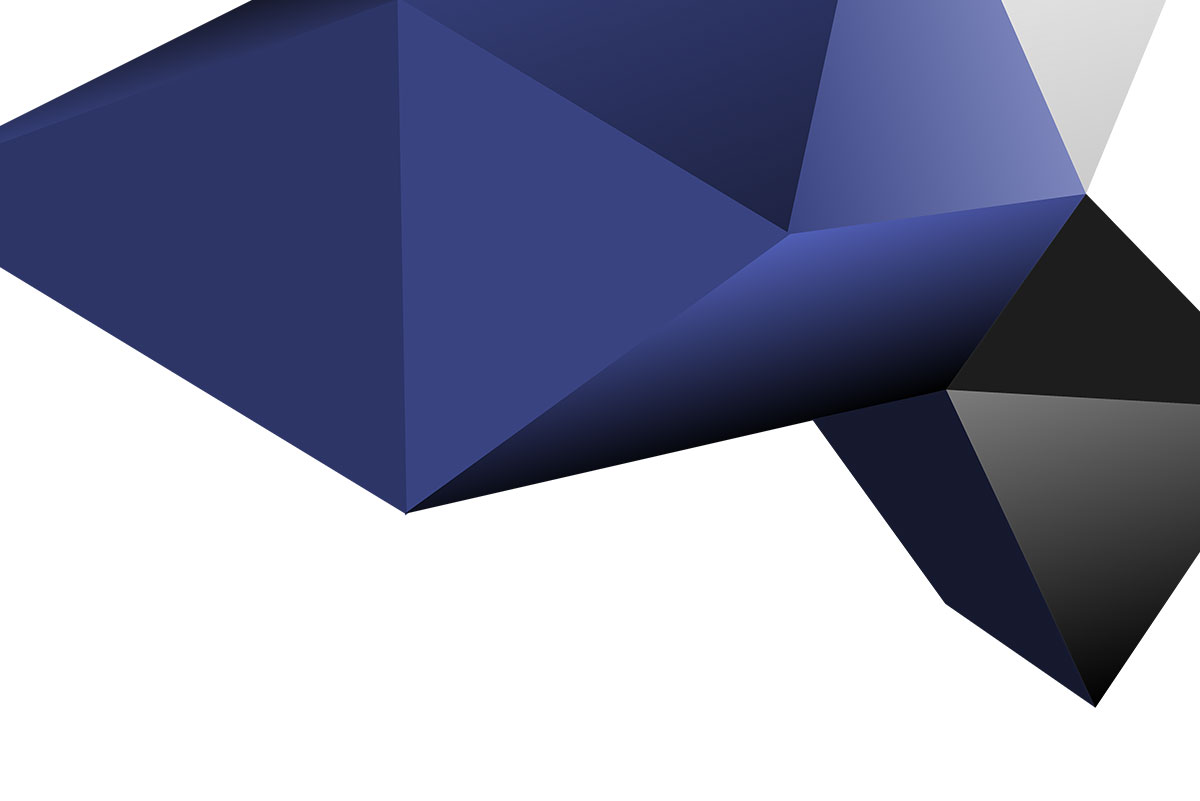
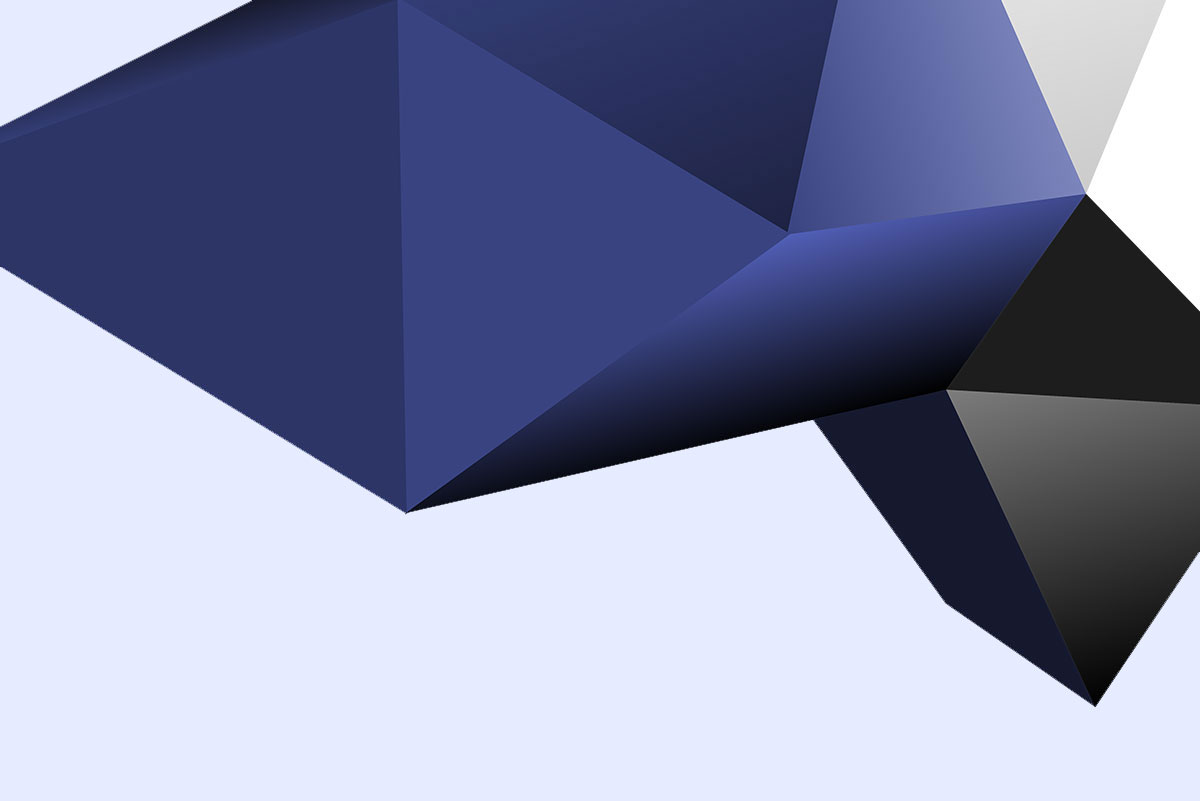
commit13

diff --git a/blwebsite/index.html b/blwebsite/index.html
@@ -59,7 +59,7 @@
             <!--Logo/-->
             <nav class="collapse navbar-collapse" id="primary-menu">
                 <ul class="nav navbar-nav navbar-right">
-                    <li class="active"><a href="#belief">Belief</a></li>
+                    <li><a href="#belief">Belief</a></li>
                     <li><a href="#howdo">How we do it</a></li>
                     <li><a href="#whyus">Why Us?</a></li>
                     <li><a href="#services">Our Services</a></li>
@@ -184,7 +184,7 @@
                 
             </div>
             <div class="row">
-                <div class="col-xs-12 text-center" style="font-size: 30px; color:white;">
+                <div class="col-xs-12 text-center" id="taoofsix">
                     <div class="caption-title" data-animation="animated fadeInUp">
                         aBraveLab presents the Tao of Six 
                     </div>
@@ -236,7 +236,7 @@
      
     <div class="row"> 
     <div class="col-sm-9">
-        <div class="row" style="padding-bottom: 2%; padding-left:15%;">
+        <div class="row" id="dw">
             <div class="col-lg-12 text-left caption-title">
                <h2 class="dt">Deep or wide?</h2>
             </div>
@@ -245,9 +245,9 @@
             </div>
         </div>
         
-        <div class="row" id="dw" style="padding-bottom: 2%; padding-left: 15%">
+        <div class="row" id="dw">
             <div class="col-sm-12">
-                <div class="caption-desc" style="font-size: 20px;" id="dwcopy">
+                <div class="caption-desc" id="dwcopy">
                     <p>Diversify or specialise? Shrinking returns, gains and markets as well as a need for safety, force most brands to choose diversification as the safety net. It takes conviction, maverick thinking and a thirst for innovation to choose to go deep instead of wide. It takes being Brave.</p>
                     <p>Brave Lab offers honed, precise services across the industries of healthcare, education and retail.We deep dive and sharp cast to deliver customised communication for brands.
                     </p>
@@ -261,7 +261,7 @@
                 
             </div>
         </div>
-        <div class="row" style="padding-bottom:2%; padding-left:15%;">
+        <div class="row" id="dwicon">
             <div class="col-sm-4 col-xs-4">
                 <div class="container">
                     <img src="images/health.png" alt="" class="img-responsive">

diff --git a/blwebsite/css/responsive.css b/blwebsite/css/responsive.css
@@ -103,15 +103,42 @@
         font-size:30px;
     }
     
-    #dt
+    .dt
     {
-        font-size: 50px;
+        font-size: 30px;
     }
     
     #ctitle
     {
         font-size: 20px;            
         
+    }
+    
+    #taoofsix
+    {
+        font-size: 20px;
+    
+    }
+    
+    #dw
+    {
+        padding-bottom: 2%;
+        padding-left: 5%;
+    }
+
+    #dwcopy
+    {
+        font-size: 20px;
+        
+    }
+    
+    #dwicon
+    {
+        
+        padding-bottom: 2%;
+        padding-left: 2%;
+    
+    
     }
     
     

diff --git a/blwebsite/style.css b/blwebsite/style.css
@@ -1006,7 +1006,52 @@ input:-webkit-autofill:focus {
 }
 
 
+#taoofsix
+{
+    font-size: 50px; 
+    color: white;
+    
+    
+}
 
+.dt
+{
+    font-size: 50px;
+}
+
+#dw
+{
+    padding-bottom: 2%;
+    padding-left: 15%;
+}
+
+#dwcopy
+{
+    font-size: 20px;
+    
+}
+
+#dwicon
+{
+    padding-bottom: 2%;
+    padding-left: 15%;
+    
+    
+}
+
+#whyus
+{
+    background-color: #E6ECFF;
+}
+
+
+
+#services
+{
+    background-color: #E6ECFF;
+    
+    
+}
 
 
 
